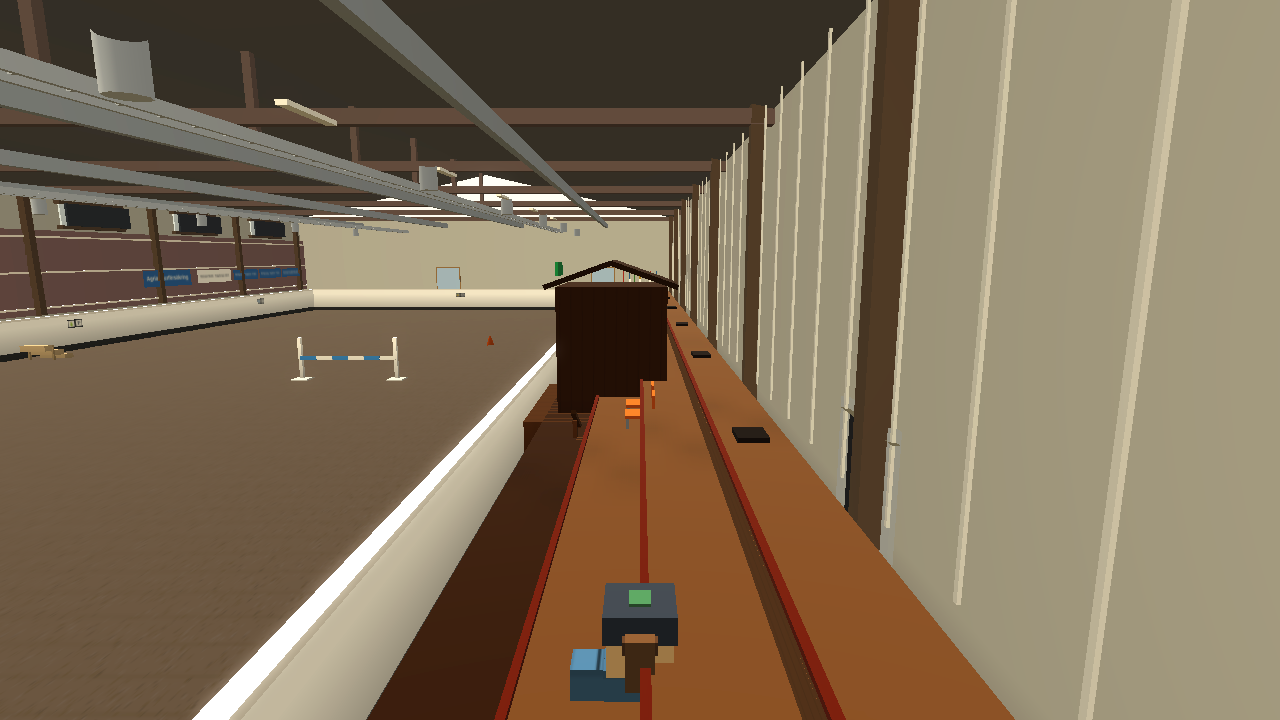
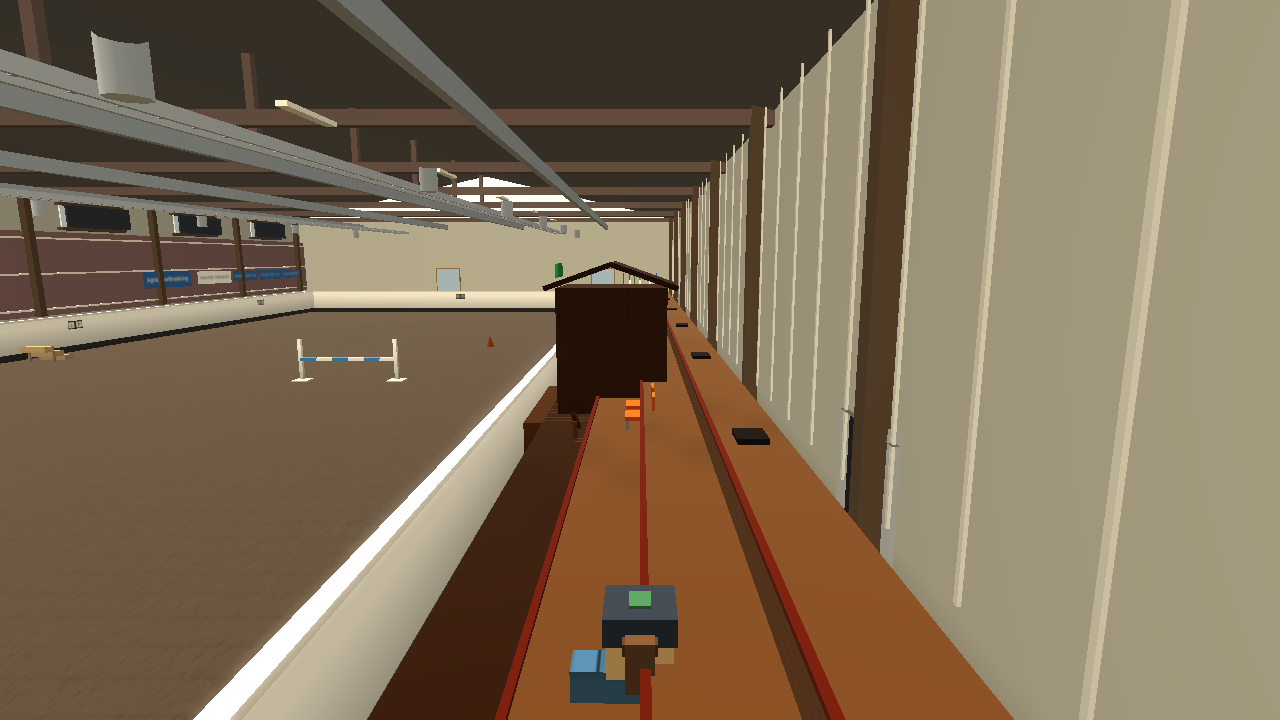
F02-B: incheckat reviewpaket renderat från checkpoint E (21 kameror, efter PO-blockeraren 15:20)
Exakt-head-paket (smutsigt: false). Ingen visuell ändring i rundan —
paketet följer § 8.1 (preview/paket = head).

Claude-Session: https://claude.ai/code/session_01RBDjv5xAUC4NuuvYQvQjGc

diff --git a/docs/visual-gate/pack/index.html b/docs/visual-gate/pack/index.html
@@ -1,7 +1,7 @@
-<!doctype html><meta charset="utf-8"><title>UBRF screenshot-pack e793077</title>
+<!doctype html><meta charset="utf-8"><title>UBRF screenshot-pack 46cbd05</title>
 <style>body{font:14px system-ui;margin:1.5rem;max-width:1400px}section{border-top:1px solid #ccc;padding:1rem 0}.par{display:grid;grid-template-columns:1fr 1fr;gap:1rem}img{max-width:100%;border:1px solid #999}figure{margin:0 0 .5rem}figcaption,.meta{font-size:12px;color:#444}table{margin-top:.5rem;border-collapse:collapse}th,td{text-align:left;padding:.2rem .6rem;vertical-align:top;border:1px solid #ddd}.gap{color:#a00}code{font-size:12px}</style>
 <h1>UBRF — Visual Fidelity Gate, screenshot-pack</h1>
-<p>Head <code>e793077841e415f410708ca04e06fd473f567880</code> · renderad 2026-09-04T15:36:41.854Z · 21 kameror · figuren dold i 0.</p>
+<p>Head <code>46cbd058299a9f3f0f2abf69ebc8c21a463c639f</code> · renderad 2026-09-04T16:09:59.195Z · 21 kameror · figuren dold i 0.</p>
 <p><b>Statuskedja:</b> IMPLEMENTED → AUTOMATED_GREEN → VISUAL_PACK_READY → CHATGPT_VISUAL_PASS → READY_FOR_PRODUCT_ACCEPTANCE → PRODUCT_ACCEPTED. Det här paketet är <b>VISUAL_PACK_READY</b> som mest. Ingen automation sätter en visuell status; grön CI är inte visual fidelity. Se docs/VISUAL-FIDELITY-GATE.md.</p>
 <nav><a href="#STALL-ANKOMST">STALL-ANKOMST</a> · <a href="#STALL-ENTRE">STALL-ENTRE</a> · <a href="#STALL-UPPEHALL">STALL-UPPEHALL</a> · <a href="#STALL-UPPEHALL-SOFFA">STALL-UPPEHALL-SOFFA</a> · <a href="#STALL-TEORISAL">STALL-TEORISAL</a> · <a href="#STALL-SADELKAMMARE">STALL-SADELKAMMARE</a> · <a href="#STALL-EFTER-PAUSRUM-V1">STALL-EFTER-PAUSRUM-V1</a> · <a href="#STALL-EFTER-PAUSRUM-V2">STALL-EFTER-PAUSRUM-V2</a> · <a href="#STALL-GANG-A">STALL-GANG-A</a> · <a href="#HASTPASSAGE">HASTPASSAGE</a> · <a href="#RIDHUS-ENTRE">RIDHUS-ENTRE</a> · <a href="#RIDHUS-SKAPKORRIDOR">RIDHUS-SKAPKORRIDOR</a> · <a href="#ARENA-A">ARENA-A</a> · <a href="#ARENA-C">ARENA-C</a> · <a href="#LAKTARE">LAKTARE</a> · <a href="#C-BLOCK-OVRE">C-BLOCK-OVRE</a> · <a href="#RIDHUS-RECEPTION">RIDHUS-RECEPTION</a> · <a href="#RIDHUS-ENTRE-INNE">RIDHUS-ENTRE-INNE</a> · <a href="#RIDHUS-SKAPRUM">RIDHUS-SKAPRUM</a> · <a href="#RIDHUS-LAKTARTRAPPA">RIDHUS-LAKTARTRAPPA</a> · <a href="#STALL-KLUBBDORRAR">STALL-KLUBBDORRAR</a></nav>
 <section id="STALL-ANKOMST">
@@ -9,7 +9,7 @@
 <p>Grusplanen norr om stallet, samma ansats som spelaren kommer från: blicken söderut mot klubbgaveln med förstukvisten och entrédörren</p>
 <div class="par">
   <div><h3>Referens</h3><figure class="txt"><figcaption>references/buildings/stall/stall-fasad-04.jpg</figcaption></figure><figure class="txt"><figcaption>references/buildings/stall/stall-entre-01.jpg</figcaption></figure><figure class="txt"><figcaption>references/buildings/stall/stall-entre-03.jpg</figcaption></figure><figure class="txt"><figcaption>references/buildings/stall/stall-entre-06.jpg</figcaption></figure><figure class="txt"><figcaption>references/buildings/stall/stall-entre-15-dorren.jpg</figcaption></figure><figure class="txt"><figcaption>references/buildings/stall/stall-entre-16-runda-fonstren.jpg</figcaption></figure></div>
-  <div><h3>Implementation @ <code>e793077</code></h3><img src="STALL-ANKOMST.png" alt="">
+  <div><h3>Implementation @ <code>46cbd05</code></h3><img src="STALL-ANKOMST.png" alt="">
     <p class="meta">spelare [161.6,131,0] · kamera [160.1,1.7,132.5] · tonade väggar 0 · siktprov: <b>synlig</b></p></div>
 </div>
 <table><tr><th>Mismatch-status (ChatGPT)</th><td><b>CHATGPT_VISUAL_PASS</b> på <code>588359194009f0722244830577d48a4201898f28</code> av ChatGPT senior visual review 2026-09-04 06:57 (runda 4)</td></tr>
@@ -22,7 +22,7 @@
 <p>Inne i uppehållsrummets östdel i ögonhöjd, blicken norrut mot den låsta fasadens entrédörr mitt på gaveln</p>
 <div class="par">
   <div><h3>Referens</h3><figure class="txt"><figcaption>references/buildings/stall/stall-entre-15-dorren.jpg</figcaption></figure><figure class="txt"><figcaption>references/buildings/stall/stall-entre-16-runda-fonstren.jpg</figcaption></figure></div>
-  <div><h3>Implementation @ <code>e793077</code></h3><img src="STALL-ENTRE.png" alt="">
+  <div><h3>Implementation @ <code>46cbd05</code></h3><img src="STALL-ENTRE.png" alt="">
     <p class="meta">spelare [8.3,66.95,0] · kamera [10.1,1.7,64.55] · tonade väggar 1 · siktprov: <b>synlig</b></p></div>
 </div>
 <table><tr><th>Mismatch-status (ChatGPT)</th><td><b>CHATGPT_VISUAL_PASS</b> på <code>588359194009f0722244830577d48a4201898f28</code> av ChatGPT senior visual review 2026-09-04 06:57 (runda 4)</td></tr>
@@ -35,7 +35,7 @@
 <p>Uppehållsrummet från södra änden (vid lobbyn) norrut genom hela rummet</p>
 <div class="par">
   <div><h3>Referens</h3><figure class="txt"><figcaption>references/buildings/stall/stall-inne-01-uppehallsrummet.jpg</figcaption></figure><figure class="txt"><figcaption>references/buildings/stall/stall-inne-02-pentryt.jpg</figcaption></figure></div>
-  <div><h3>Implementation @ <code>e793077</code></h3><img src="STALL-UPPEHALL.png" alt="">
+  <div><h3>Implementation @ <code>46cbd05</code></h3><img src="STALL-UPPEHALL.png" alt="">
     <p class="meta">spelare [4,61.55,0] · kamera [4,2.25,58.22] · tonade väggar 0 · siktprov: <b>synlig</b></p></div>
 </div>
 <table><tr><th>Mismatch-status (ChatGPT)</th><td><b>MISMATCH</b> på <code>588359194009f0722244830577d48a4201898f28</code> av ChatGPT senior visual review 2026-09-04 06:57 (runda 4)</td></tr>
@@ -48,7 +48,7 @@
 <p>Fotots vinkel (stall-inne-01): från rummets sydöstra del snett mot nordvästra hörnet — soffan mot västväggen under fotoväggen, valvfönstret norr om den med ponnyn under, klockan och växten söder om fotoväggen, den andra soffan i vinkel i förgrunden. Explicit kamera; figuren till vänster om blicklinjen.</p>
 <div class="par">
   <div><h3>Referens</h3><figure class="txt"><figcaption>references/buildings/stall/stall-inne-01-uppehallsrummet.jpg</figcaption></figure></div>
-  <div><h3>Implementation @ <code>e793077</code></h3><img src="STALL-UPPEHALL-SOFFA.png" alt="">
+  <div><h3>Implementation @ <code>46cbd05</code></h3><img src="STALL-UPPEHALL-SOFFA.png" alt="">
     <p class="meta">spelare [2.4,67.2,0] · kamera [4.7,1.6,62.9] · tonade väggar 0 · siktprov: <b>synlig</b></p></div>
 </div>
 <table><tr><th>Mismatch-status (ChatGPT)</th><td><b>EJ_GRANSKAD</b></td></tr>
@@ -61,7 +61,7 @@
 <p>Fotots vinkel (stall-inne-04): från rummets västra del österut — valvfönstren till vänster, whiteboardväggen rakt fram, bordsblocket med vita stolar, skåpet med mikron i sydöstra hörnet, planscherna på sydväggen, lysrören och spiralkanalen under det platta innertaket. Explicit kamera.</p>
 <div class="par">
   <div><h3>Referens</h3><figure class="txt"><figcaption>references/buildings/stall/stall-inne-04-teorisalen.jpg</figcaption></figure></div>
-  <div><h3>Implementation @ <code>e793077</code></h3><img src="STALL-TEORISAL.png" alt="">
+  <div><h3>Implementation @ <code>46cbd05</code></h3><img src="STALL-TEORISAL.png" alt="">
     <p class="meta">spelare [15.9,66.2,0] · kamera [11.7,1.6,67.6] · tonade väggar 0 · siktprov: <b>synlig</b></p></div>
 </div>
 <table><tr><th>Mismatch-status (ChatGPT)</th><td><b>EJ_GRANSKAD</b></td></tr>
@@ -74,7 +74,7 @@
 <p>Fotots vinkel (stall-inne-03): från rummets södra del norrut — säkerhetsvästarna på krokrader längs västväggen till vänster, den täta vita stövelhyllan till höger, den grå ståldörren med fönster mot teorisalen rakt fram. Explicit kamera.</p>
 <div class="par">
   <div><h3>Referens</h3><figure class="txt"><figcaption>references/buildings/stall/stall-inne-03-sadelkammaren.jpg</figcaption></figure></div>
-  <div><h3>Implementation @ <code>e793077</code></h3><img src="STALL-SADELKAMMARE.png" alt="">
+  <div><h3>Implementation @ <code>46cbd05</code></h3><img src="STALL-SADELKAMMARE.png" alt="">
     <p class="meta">spelare [8.15,62.5,0] · kamera [8.7,1.6,58.4] · tonade väggar 0 · siktprov: <b>synlig</b></p></div>
 </div>
 <table><tr><th>Mismatch-status (ChatGPT)</th><td><b>EJ_GRANSKAD</b></td></tr>
@@ -87,7 +87,7 @@
 <p>PO 2026-09-04 15:15: från pausrummets riktning (inre entrén i den genomgående väggen) ut i den öppna service-/tvättzonen och ner i stallgången — PAUSRUM → ÖPPEN ZON → STALLGÅNG → BOXFRONTER. Explicit kamera.</p>
 <div class="par">
   <div><h3>Referens</h3><figure class="txt"><figcaption>references/spatial/stall-efter-pausrum-po-v1.md</figcaption></figure><figure class="txt"><figcaption>references/buildings/stall/stall-inne-05-stallgangen.jpg</figcaption></figure><figure class="txt"><figcaption>references/buildings/stall/stall-gang-05.jpg</figcaption></figure></div>
-  <div><h3>Implementation @ <code>e793077</code></h3><img src="STALL-EFTER-PAUSRUM-V1.png" alt="">
+  <div><h3>Implementation @ <code>46cbd05</code></h3><img src="STALL-EFTER-PAUSRUM-V1.png" alt="">
     <p class="meta">spelare [7.2,54.2,0] · kamera [4.55,1.65,56.9] · tonade väggar 0 · siktprov: <b>synlig</b></p></div>
 </div>
 <table><tr><th>Mismatch-status (ChatGPT)</th><td><b>EJ_GRANSKAD</b></td></tr>
@@ -100,7 +100,7 @@
 <p>PO 2026-09-04 15:15: från stallgången tillbaka mot tvätt-/serviceväggen och utgångsrelationen: den vita väggen med rör, den grå dörren (inre entrén) med kodlås, klocka och skylt, tvättstationen. Explicit kamera.</p>
 <div class="par">
   <div><h3>Referens</h3><figure class="txt"><figcaption>references/spatial/stall-efter-pausrum-po-v1.md</figcaption></figure><figure class="txt"><figcaption>references/buildings/stall/stall-inne-05-stallgangen.jpg</figcaption></figure><figure class="txt"><figcaption>references/buildings/stall/stall-gang-05.jpg</figcaption></figure></div>
-  <div><h3>Implementation @ <code>e793077</code></h3><img src="STALL-EFTER-PAUSRUM-V2.png" alt="">
+  <div><h3>Implementation @ <code>46cbd05</code></h3><img src="STALL-EFTER-PAUSRUM-V2.png" alt="">
     <p class="meta">spelare [6.6,55.8,0] · kamera [6,1.6,52.6] · tonade väggar 0 · siktprov: <b>synlig</b></p></div>
 </div>
 <table><tr><th>Mismatch-status (ChatGPT)</th><td><b>EJ_GRANSKAD</b></td></tr>
@@ -113,7 +113,7 @@
 <p>I gång A, blicken norrut mot klubbdelen — boxfronter på båda sidor</p>
 <div class="par">
   <div><h3>Referens</h3><figure class="txt"><figcaption>references/buildings/stall/stall-inne-05-stallgangen.jpg</figcaption></figure><figure class="txt"><figcaption>references/buildings/stall/stall-inne-08-breda-gangen.jpg</figcaption></figure></div>
-  <div><h3>Implementation @ <code>e793077</code></h3><img src="STALL-GANG-A.png" alt="">
+  <div><h3>Implementation @ <code>46cbd05</code></h3><img src="STALL-GANG-A.png" alt="">
     <p class="meta">spelare [5.69,12.8,0] · kamera [5.69,2.25,9.47] · tonade väggar 0 · siktprov: <b>synlig</b></p></div>
 </div>
 <table><tr><th>Mismatch-status (ChatGPT)</th><td><b>EJ_GRANSKAD</b></td></tr>
@@ -126,7 +126,7 @@
 <p>Från gång A:s östra kant i ögonhöjd, blicken västerut genom brottet i västra boxraden in i hästgången mot ridhuset</p>
 <div class="par">
   <div><h3>Referens</h3><figure class="txt"><figcaption>references/plans/SATELLIT-HASTGANG-2026-08-30.md</figcaption></figure></div>
-  <div><h3>Implementation @ <code>e793077</code></h3><img src="HASTPASSAGE.png" alt="">
+  <div><h3>Implementation @ <code>46cbd05</code></h3><img src="HASTPASSAGE.png" alt="">
     <p class="meta">spelare [4.99,29.55,0] · kamera [6.79,1.7,30.45] · tonade väggar 0 · siktprov: <b>synlig</b></p></div>
 </div>
 <table><tr><th>Mismatch-status (ChatGPT)</th><td><b>EJ_GRANSKAD</b></td></tr>
@@ -139,7 +139,7 @@
 <p>Från huvudentréns innerdörr norrut över entré/reception i ögonhöjd: öppen hall, receptionens glas till höger (= golden view RIDHUS-V1). Explicit kamera i hallen — följkameran bakom figuren hamnar annars på läktarens bänkrader (F02-B) söder om hallen.</p>
 <div class="par">
   <div><h3>Referens</h3><figure class="txt"><figcaption>references/buildings/ridhus/ridhus-klubb-01-omkladningsgangen.jpg</figcaption></figure><figure class="txt"><figcaption>references/buildings/ridhus/ridhus-klubb-15-korridoren-mot-glasrummen.jpg</figcaption></figure><figure class="txt"><figcaption>references/buildings/ridhus/ridhus-klubb-02-glasrummen.jpg</figcaption></figure></div>
-  <div><h3>Implementation @ <code>e793077</code></h3><img src="RIDHUS-ENTRE.png" alt="">
+  <div><h3>Implementation @ <code>46cbd05</code></h3><img src="RIDHUS-ENTRE.png" alt="">
     <p class="meta">spelare [1.4,69.58,0] · kamera [1.2,1.7,66.68] · tonade väggar 0 · siktprov: <b>synlig</b></p></div>
 </div>
 <table><tr><th>Mismatch-status (ChatGPT)</th><td><b>EJ_GRANSKAD</b></td></tr>
@@ -152,7 +152,7 @@
 <p>Den långa skåpgången (ridhus-klubb-01/-15) från gångens södra ände i ögonhöjd, blicken norrut: skåpraden till höger i hela längden, receptionens glasdisk till vänster längst upp, bordet med de två stolarna mitt för glaset, gavelns valvfönster med stövelbänken i fonden. Explicit kamera.</p>
 <div class="par">
   <div><h3>Referens</h3><figure class="txt"><figcaption>references/buildings/ridhus/ridhus-klubb-16-skaprummet-med-pelaren.jpg</figcaption></figure><figure class="txt"><figcaption>references/buildings/ridhus/ridhus-klubb-18-skapraden-narbild.jpg</figcaption></figure><figure class="txt"><figcaption>references/buildings/ridhus/ridhus-klubb-20-grona-skapen.jpg</figcaption></figure><figure class="txt"><figcaption>references/buildings/ridhus/ridhus-klubb-21-grona-skapen-vinkel.jpg</figcaption></figure></div>
-  <div><h3>Implementation @ <code>e793077</code></h3><img src="RIDHUS-SKAPKORRIDOR.png" alt="">
+  <div><h3>Implementation @ <code>46cbd05</code></h3><img src="RIDHUS-SKAPKORRIDOR.png" alt="">
     <p class="meta">spelare [2.9,69.6,0] · kamera [3.4,1.65,66.7] · tonade väggar 0 · siktprov: <b>synlig</b></p></div>
 </div>
 <table><tr><th>Mismatch-status (ChatGPT)</th><td><b>EJ_GRANSKAD</b></td></tr>
@@ -165,7 +165,7 @@
 <p>På banan nära A, blicken söderut mot kortsidan vid A</p>
 <div class="par">
   <div><h3>Referens</h3><figure class="txt"><figcaption>references/buildings/ridhus/ridhus-inne-23-kortsidan-vid-a.jpg</figcaption></figure><figure class="txt"><figcaption>references/buildings/ridhus/ridhus-inne-11-ridbanan.jpg</figcaption></figure></div>
-  <div><h3>Implementation @ <code>e793077</code></h3><img src="ARENA-A.png" alt="">
+  <div><h3>Implementation @ <code>46cbd05</code></h3><img src="ARENA-A.png" alt="">
     <p class="meta">spelare [14.4,6.15,0] · kamera [14.4,2.25,9.48] · tonade väggar 0 · siktprov: <b>synlig</b></p></div>
 </div>
 <table><tr><th>Mismatch-status (ChatGPT)</th><td><b>EJ_GRANSKAD</b></td></tr>
@@ -178,7 +178,7 @@
 <p>På banan nära C, blicken norrut mot C-blocket, glasbandet och trapporna</p>
 <div class="par">
   <div><h3>Referens</h3><figure class="txt"><figcaption>references/buildings/ridhus/ridhus-inne-01-glasrummen.jpg</figcaption></figure><figure class="txt"><figcaption>references/buildings/ridhus/ridhus-inne-06-laktaren-och-glasrummet.jpg</figcaption></figure><figure class="txt"><figcaption>references/buildings/ridhus/ridhus-inne-27-glasrummet-inifran-banan.jpg</figcaption></figure></div>
-  <div><h3>Implementation @ <code>e793077</code></h3><img src="ARENA-C.png" alt="">
+  <div><h3>Implementation @ <code>46cbd05</code></h3><img src="ARENA-C.png" alt="">
     <p class="meta">spelare [14.4,57.68,0] · kamera [14.4,2.25,54.35] · tonade väggar 0 · siktprov: <b>synlig</b></p></div>
 </div>
 <table><tr><th>Mismatch-status (ChatGPT)</th><td><b>CHATGPT_VISUAL_PASS</b> på <code>588359194009f0722244830577d48a4201898f28</code> av ChatGPT senior visual review 2026-09-04 06:57 (runda 4)</td></tr>
@@ -191,7 +191,7 @@
 <p>På läktardäcket, blicken söderut längs läktaren med banan till vänster</p>
 <div class="par">
   <div><h3>Referens</h3><figure class="txt"><figcaption>references/buildings/ridhus/ridhus-inne-14-laktaren.jpg</figcaption></figure><figure class="txt"><figcaption>references/buildings/ridhus/ridhus-inne-41-banan-fran-laktaren.jpg</figcaption></figure><figure class="txt"><figcaption>references/buildings/ridhus/ridhus-inne-40-domartornet-pa-laktaren.jpg</figcaption></figure><figure class="txt"><figcaption>references/buildings/ridhus/ridhus-inne-43-laktaren-vid-h.jpg</figcaption></figure></div>
-  <div><h3>Implementation @ <code>e793077</code></h3><img src="LAKTARE.png" alt="">
+  <div><h3>Implementation @ <code>46cbd05</code></h3><img src="LAKTARE.png" alt="">
     <p class="meta">spelare [2.3,38.92,1.4] · kamera [2.3,3.65,42.24] · tonade väggar 0 · siktprov: <b>synlig</b></p></div>
 </div>
 <table><tr><th>Mismatch-status (ChatGPT)</th><td><b>EJ_GRANSKAD</b></td></tr>
@@ -204,7 +204,7 @@
 <p>Från nedersta bänkraden vid klockan (som ridhus-inne-01): raderna, de två loppen, klockväggen, glasbandet och övre gången</p>
 <div class="par">
   <div><h3>Referens</h3><figure class="txt"><figcaption>references/buildings/ridhus/ridhus-inne-01-glasrummen.jpg</figcaption></figure><figure class="txt"><figcaption>references/buildings/ridhus/ridhus-inne-07-laktartrappstegen.jpg</figcaption></figure><figure class="txt"><figcaption>references/buildings/ridhus/ridhus-klubb-10-overvaningens-gang.jpg</figcaption></figure><figure class="txt"><figcaption>references/buildings/ridhus/granskning-2026-08-31/C-kortandan-och-kafeet.md</figcaption></figure></div>
-  <div><h3>Implementation @ <code>e793077</code></h3><img src="C-BLOCK-OVRE.png" alt="">
+  <div><h3>Implementation @ <code>46cbd05</code></h3><img src="C-BLOCK-OVRE.png" alt="">
     <p class="meta">spelare [15.8,66.28,1.12] · kamera [15.8,3.37,62.95] · tonade väggar 0 · siktprov: <b>synlig</b></p></div>
 </div>
 <table><tr><th>Mismatch-status (ChatGPT)</th><td><b>CHATGPT_VISUAL_PASS</b> på <code>588359194009f0722244830577d48a4201898f28</code> av ChatGPT senior visual review 2026-09-04 06:57 (runda 4)</td></tr>
@@ -217,7 +217,7 @@
 <p>I skåpgången i ögonhöjd, blicken snett mot receptionens glasade bröstning i nordvästra hörnet — samma relation som ridhus-klubb-02/-15: disken med glasrutorna på ena sidan, skåpraden mitt emot. Explicit kamera; figuren till vänster om blicklinjen.</p>
 <div class="par">
   <div><h3>Referens</h3><figure class="txt"><figcaption>references/buildings/ridhus/ridhus-klubb-02-glasrummen.jpg</figcaption></figure><figure class="txt"><figcaption>references/buildings/ridhus/ridhus-klubb-15-korridoren-mot-glasrummen.jpg</figcaption></figure><figure class="txt"><figcaption>references/buildings/ridhus/ridhus-klubb-01-omkladningsgangen.jpg</figcaption></figure></div>
-  <div><h3>Implementation @ <code>e793077</code></h3><img src="RIDHUS-RECEPTION.png" alt="">
+  <div><h3>Implementation @ <code>46cbd05</code></h3><img src="RIDHUS-RECEPTION.png" alt="">
     <p class="meta">spelare [3.4,73.4,0] · kamera [4,1.6,71.6] · tonade väggar 0 · siktprov: <b>synlig</b></p></div>
 </div>
 <table><tr><th>Mismatch-status (ChatGPT)</th><td><b>EJ_GRANSKAD</b></td></tr>
@@ -230,7 +230,7 @@
 <p>Inne i hallen i ögonhöjd, blicken västerut mot den låsta fasadens entrédörr (dorrvit u 9): dörren ska läsas som en dörr inifrån — vit glasad dubbeldörr med karm och utrymningsskylt (IMG_0169-f05, ridhus-klubb-03). Explicit kamera.</p>
 <div class="par">
   <div><h3>Referens</h3><figure class="txt"><figcaption>references/video/ridhus-nyckelrutor/IMG_0169-f05-korridoren-mot-entren.jpg</figcaption></figure><figure class="txt"><figcaption>references/buildings/ridhus/ridhus-klubb-03-korridordorrarna.jpg</figcaption></figure></div>
-  <div><h3>Implementation @ <code>e793077</code></h3><img src="RIDHUS-ENTRE-INNE.png" alt="">
+  <div><h3>Implementation @ <code>46cbd05</code></h3><img src="RIDHUS-ENTRE-INNE.png" alt="">
     <p class="meta">spelare [3,68.7,0] · kamera [5.4,1.6,68.6] · tonade väggar 1 · siktprov: <b>synlig</b></p></div>
 </div>
 <table><tr><th>Mismatch-status (ChatGPT)</th><td><b>EJ_GRANSKAD</b></td></tr>
@@ -243,7 +243,7 @@
 <p>Product Owner 2026-09-04 11:56 ("Saknas skåp"): skåpförvaringen ur ridhus-klubb-16/-18/-20/-21 som tre fristående grupper i entrédelens öppna västra remsa (x 0–2,2 söder om receptionen) — gröna tvåvåningsskåp på ben, höga grå/mörkblå skåp, vit tvåvåningsbank. Explicit kamera från gångens södra ände snett mot nordväst.</p>
 <div class="par">
   <div><h3>Referens</h3><figure class="txt"><figcaption>references/buildings/ridhus/ridhus-klubb-16-skaprummet-med-pelaren.jpg</figcaption></figure><figure class="txt"><figcaption>references/buildings/ridhus/ridhus-klubb-18-skapraden-narbild.jpg</figcaption></figure><figure class="txt"><figcaption>references/buildings/ridhus/ridhus-klubb-20-grona-skapen.jpg</figcaption></figure><figure class="txt"><figcaption>references/buildings/ridhus/ridhus-klubb-21-grona-skapen-vinkel.jpg</figcaption></figure></div>
-  <div><h3>Implementation @ <code>e793077</code></h3><img src="RIDHUS-SKAPRUM.png" alt="">
+  <div><h3>Implementation @ <code>46cbd05</code></h3><img src="RIDHUS-SKAPRUM.png" alt="">
     <p class="meta">spelare [2,71.78,0] · kamera [3,1.55,68.4] · tonade väggar 0 · siktprov: <b>synlig</b></p></div>
 </div>
 <table><tr><th>Mismatch-status (ChatGPT)</th><td><b>EJ_GRANSKAD</b></td></tr>
@@ -256,7 +256,7 @@
 <p>Från hallens sydvästra hörn i ögonhöjd, blicken sydväst mot läktarens norra ände: trappan längs västväggen från hallgolvet upp mot övre plan (ridhus-inne-39, -11), läktardäckets ände (ridhus-inne-15/-14). Explicit kamera.</p>
 <div class="par">
   <div><h3>Referens</h3><figure class="txt"><figcaption>references/buildings/ridhus/ridhus-inne-39-gangen-bakom-laktaren.jpg</figcaption></figure><figure class="txt"><figcaption>references/buildings/ridhus/ridhus-klubb-11-trappan-till-hinderforradet.jpg</figcaption></figure><figure class="txt"><figcaption>references/buildings/ridhus/ridhus-inne-15-hornet-mot-glasrummen.jpg</figcaption></figure></div>
-  <div><h3>Implementation @ <code>e793077</code></h3><img src="RIDHUS-LAKTARTRAPPA.png" alt="">
+  <div><h3>Implementation @ <code>46cbd05</code></h3><img src="RIDHUS-LAKTARTRAPPA.png" alt="">
     <p class="meta">spelare [2.4,67.4,0] · kamera [4.3,1.7,69.9] · tonade väggar 1 · siktprov: <b>synlig</b></p></div>
 </div>
 <table><tr><th>Mismatch-status (ChatGPT)</th><td><b>EJ_GRANSKAD</b></td></tr>
@@ -269,7 +269,7 @@
 <p>I gång A i ögonhöjd, blicken norrut mot den genomgående väggen: inre entrén (x 4,1–5,0) och sadelkammarens dörr (x 7,7–8,8) ska läsas som dörrar — vit karm, mörk smyg, överstycke — inte som slitsar från golv till tak (stall-inne-03, ridhus-klubb-03/-19 för karmarnas utseende). Explicit kamera.</p>
 <div class="par">
   <div><h3>Referens</h3><figure class="txt"><figcaption>references/buildings/stall/stall-inne-03-sadelkammaren.jpg</figcaption></figure><figure class="txt"><figcaption>references/buildings/ridhus/ridhus-klubb-19-dorrarna-till-omkladningen.jpg</figcaption></figure></div>
-  <div><h3>Implementation @ <code>e793077</code></h3><img src="STALL-KLUBBDORRAR.png" alt="">
+  <div><h3>Implementation @ <code>46cbd05</code></h3><img src="STALL-KLUBBDORRAR.png" alt="">
     <p class="meta">spelare [3.9,56.35,0] · kamera [5.2,1.6,54.45] · tonade väggar 0 · siktprov: <b>synlig</b></p></div>
 </div>
 <table><tr><th>Mismatch-status (ChatGPT)</th><td><b>EJ_GRANSKAD</b></td></tr>
